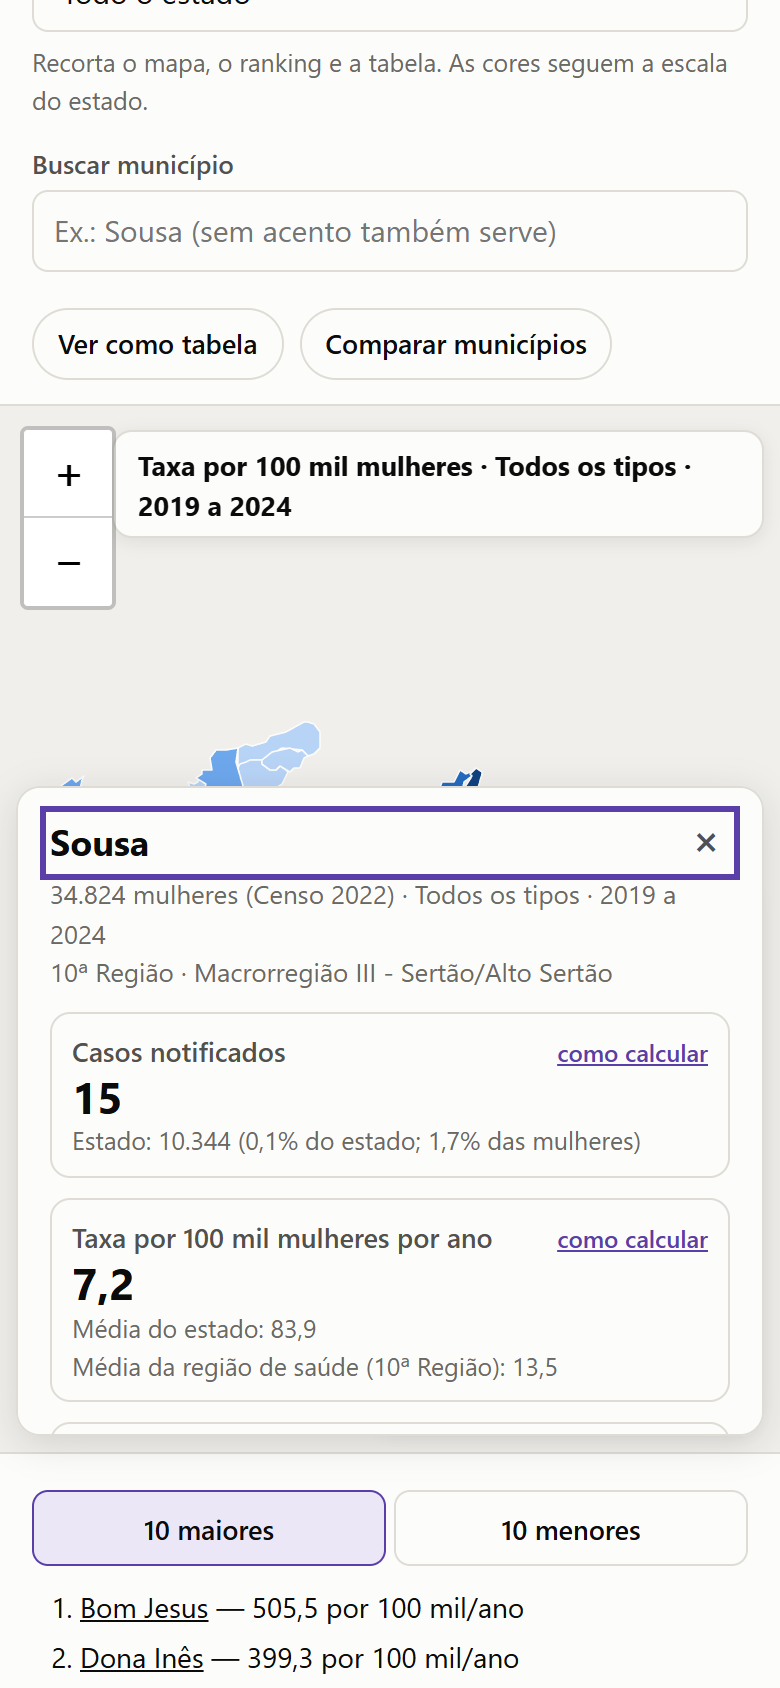
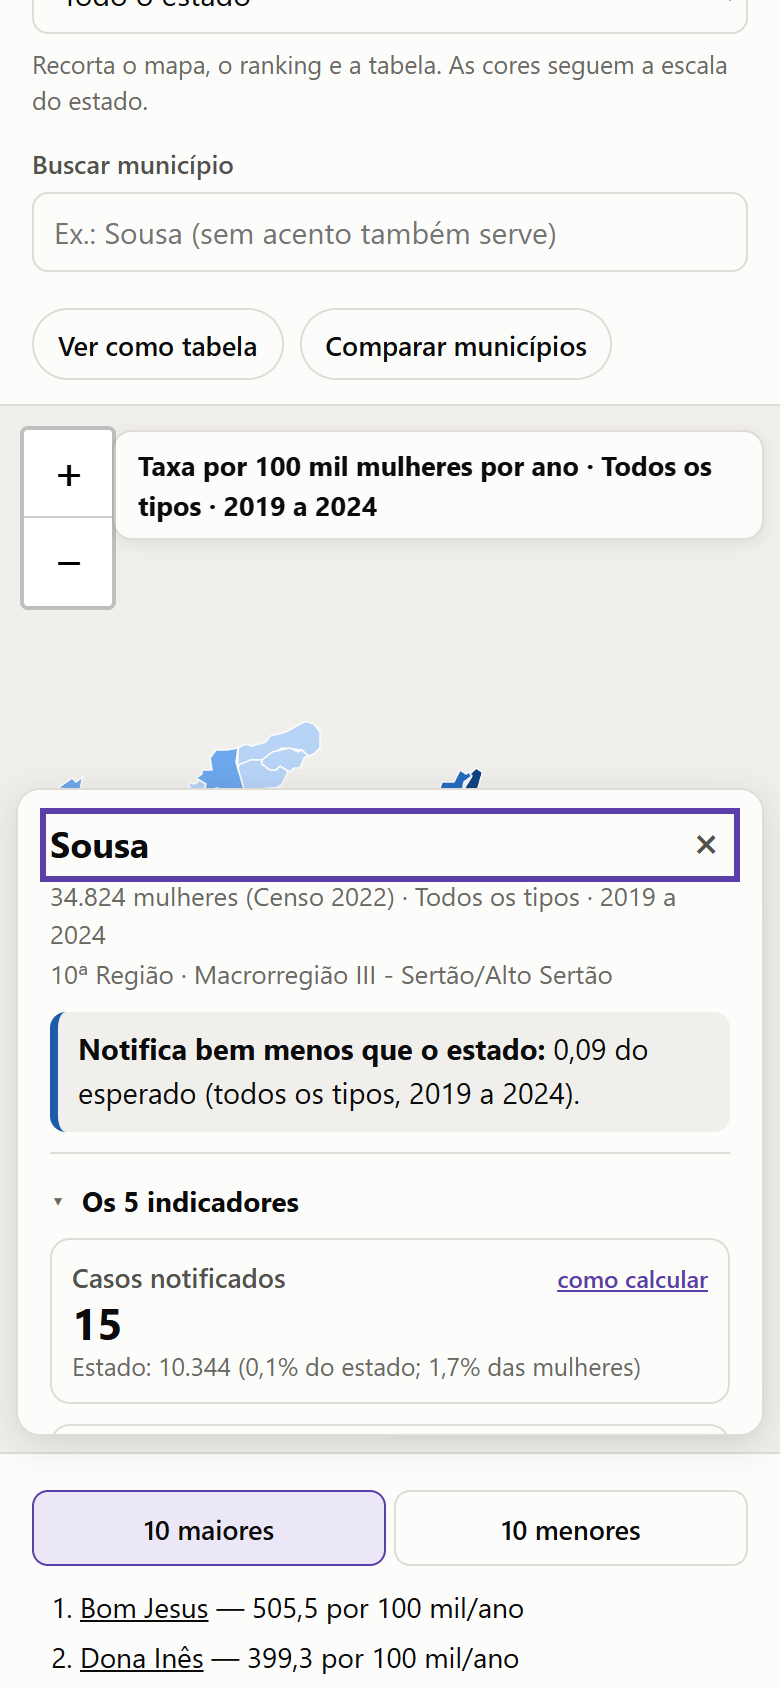
Documentação: acabamento registrado na revisão de usabilidade, material do teste e capturas

diff --git a/docs/websig_usabilidade.md b/docs/websig_usabilidade.md
@@ -77,3 +77,23 @@ Registro: `capturas/piloto_tarefas.json` (gerado pelos testes) e capturas `pilot
 | WebKit (motor do Safari) | 84 OK, 0 falhas | 28 OK, 0 falhas | Links com `tabindex="0"` (problema 15). No teste: o toque usa um ponto dentro do polígono, porque o centro da caixa pode cair no município vizinho. |
 
 A leitura da área de transferência (Copiar link) e o PDF da ficha só são conferidos no Chrome, porque os outros navegadores do Playwright não liberam essas funções nos testes.
+
+## Acabamento para a apresentação (ramo `bases-contexto`, 18/11/2026)
+
+Revisão de acabamento feita como faria uma banca de Interface com o Usuário, sem novas bases nem indicadores e sem mudar dados, SQL ou fórmulas.
+
+| # | Problema | Heurística / critério | Gravidade | Ajuste feito |
+|---|---|---|---|---|
+| A1 | Quem chegava pela primeira vez não tinha uma explicação do painel: para que serve, como usar, fontes e avisos. | H10 Ajuda e documentação; H2 Correspondência com o mundo real | 3 | Tela **"Sobre o painel"**: abre na 1ª visita, com para que serve, uso em 3 passos, os 5 indicadores em uma linha cada, fontes com data e os avisos (notificação ≠ ocorrência; poucos casos). Fecha com um clique ("Começar") e não volta (localStorage com try/catch). Botão "Sobre o painel" no topo. Não abre quando se chega por link de uma ficha. |
+| A2 | A ficha não dizia o que olhar primeiro: começava por 5 cartões do mesmo peso. | H8 Estética e design minimalista; hierarquia visual | 3 | **Frase-resumo calculada** no topo (ex.: "Notifica bem menos que o estado: 0,09 do esperado (todos os tipos, 2019 a 2024)"), com os mesmos cortes da legenda (0,5 · 0,8 · 1,25 · 2). Depois "Os 5 indicadores" e, em seguida, os contextos: faixa etária em detalhe, casos por ano, onde foram atendidas e serviços da MUNIC. |
+| A3 | No celular, a ficha era um rolo longo. | H8; WCAG 1.4.10 Refluxo | 2 | Seções recolhíveis (`<details>`); no celular, só "Os 5 indicadores" começa aberta. Na impressão, todas abrem. |
+| A4 | Sem aviso de carregamento: a tela ficava vazia enquanto os dados chegavam. | H1 Visibilidade do estado do sistema | 2 | "Carregando os dados do painel…" (`role=status`), sobreposto e sem deslocar o layout. |
+| A5 | Se `dados.json` e `dados.js` faltassem, aparecia uma faixa vermelha genérica, com cores fixas que ignoravam o tema escuro. | H9 Ajudar a reconhecer e corrigir erros | 3 | Tela de erro com o que aconteceu e o que fazer (conferir a pasta, extrair o .zip inteiro, rodar `atualizar.bat`) e o botão "Tentar de novo"; usa as cores do tema. |
+| A6 | Filtrar a tabela da Análise por um nome inexistente deixava a tabela vazia, sem explicação. | H9; estados vazios | 2 | Linha "Nenhum município encontrado para …. Confira o nome." |
+| A7 | Termos diferentes para a mesma coisa: "Taxa por 100 mil mulheres" (lista e título do mapa) × "por ano" (legenda); "Taxa / 100 mil / ano" nas tabelas; "Comparar com outros" × "Comparar municípios"; dois "Copiar link" com funções diferentes; "Baixar CSV". | H4 Consistência e padrões | 2 | Nome completo "Taxa por 100 mil mulheres por ano" na lista e no título do mapa; "Taxa por 100 mil/ano" nos cabeçalhos curtos; "Comparar municípios" nos dois lugares; "Copiar link da ficha" na ficha; "Baixar tabela (CSV)". |
+| A8 | Números sem unidade nos gráficos da Análise: a contagem por faixa ("2.592 (25,1%)"), a taxa por faixa e a linha de referência. | Nenhum número sem unidade; H2 | 2 | "2.592 casos (25,1%)", "157,9 por 100 mil/ano · 1.315 casos", "estado: 83,9 por 100 mil/ano", "10.344 casos · 83,9 por 100 mil/ano". |
+| A9 | As leituras da Análise não cobriam os contextos novos nem diziam o que fazer com cada achado. | H2; utilidade para a decisão | 2 | 3 leituras novas, todas calculadas dos dados: faixa de maior taxa (10 a 14 anos), % atendidas na própria região de saúde e quantos municípios declaram cada serviço na MUNIC 2023. **Toda** leitura ganhou "Pergunta para a gestão". O título do bloco passou a "Leituras prontas". |
+| A10 | Não havia roteiro para demonstrar o painel em poucos minutos. | H10; apoio à apresentação | 1 | Botão **"Tour"**: 6 passos (mapa da taxa → observado ÷ esperado → ficha de Sousa → faixa etária em taxa → Análise → Como calcular), cada um com uma frase, Anterior/Próximo, setas ← → e Esc; ao sair, o foco volta ao botão. |
+| A11 | Abrir o painel montava as três telas de uma vez: no celular simulado, 380 ms de bloqueio e Desempenho 75 no Lighthouse. | Eficiência; tempo de resposta | 2 | Análise e Como calcular só são montadas na primeira vez que se abre a aba; "Sobre o painel" abre sem esperar os dados; o aviso de carregamento não desloca o layout; meta description. Lighthouse: celular 99, computador 100 (ver `docs/lighthouse/`). |
+
+Teste-piloto depois do acabamento: as tarefas continuam com 1 ou 2 ações. Na primeira visita há 1 ação a mais (fechar "Sobre o painel"), só uma vez.

diff --git a/README.md b/README.md
@@ -11,7 +11,7 @@ Trabalho de Conclusão de Curso (artigo tecnológico), Sistemas de Informação,
 - **Sem instalar nada:** dê duplo clique em `web/index.html`. Funciona offline, no Chrome, Edge, Firefox ou Safari (usa `web/dados.js`).
 - **Num servidor** (GitHub Pages, servidor da universidade ou `python -m http.server` dentro de `web/`): publique a pasta `web/`. O painel lê `web/dados.json`.
 
-O painel tem três telas: **Mapa** (filtros, mapa, ranking e ficha do município), **Análise** (gráficos, conclusões e tabela para baixar em CSV) e **Como calcular** (cada indicador com fórmula e exemplo).
+O painel tem três telas: **Mapa** (filtros, mapa, ranking e ficha do município), **Análise** (leituras prontas com a pergunta para a gestão, gráficos e tabela para baixar em CSV) e **Como calcular** (cada indicador com fórmula e exemplo). Na primeira visita abre a tela **Sobre o painel** (para que serve, uso em 3 passos, fontes e avisos); o botão **Tour** faz uma demonstração guiada em 6 passos.
 
 ## Como atualizar os dados (refazer tudo a partir dos dados brutos)
 
@@ -68,7 +68,7 @@ Views: `vw_indicador_municipio_ano_tipo` (município × período × tipo), `vw_i
 - Filtros de indicador, tipo de violência, período (cada ano ou 2019–2024) e **região de saúde** (16 regiões; recorta o mapa, o ranking e a tabela e aproxima o mapa da região).
 - Título do mapa com os filtros ativos; legenda com a média do estado (e da região, quando escolhida).
 - Ranking dos 10 maiores e dos 10 menores (nos menores entram só municípios com pelo menos 10 casos).
-- **Ficha do município:** os 5 indicadores comparados com o estado e com a região de saúde, série anual, tipos, faixa etária ("Faixa mais atingida" e botões **Casos | Taxa por 100 mil/ano**, com a taxa do estado como referência), aviso de poucos casos, link "como calcular" e **Imprimir ficha**.
+- **Ficha do município:** frase-resumo calculada no topo (o que olhar primeiro), os 5 indicadores comparados com o estado e com a região de saúde, série anual, tipos, faixa etária ("Faixa mais atingida" e botões **Casos | Taxa por 100 mil/ano**, com a taxa do estado como referência), aviso de poucos casos, link "como calcular" e **Imprimir ficha**.
 - **Onde as mulheres foram atendidas** (contexto, na ficha e na Análise): barra única de 100% com mesma região de saúde, outra região da Paraíba e fora da Paraíba, com número e %. % = casos atendidos na categoria ÷ casos do município × 100. Não é indicador e não diz o motivo.
 - **Serviços declarados pelo município (MUNIC 2023, IBGE):** organismo de políticas para mulheres, centro de referência, casa-abrigo e delegacia especializada, com ícone e texto (sim / não / sem dado). É contexto: não entra em nenhuma conta nem no mapa.
 - Comparar 2 ou 3 municípios; ver o mapa como tabela; baixar CSV (separador `;`, vírgula decimal, abre direto no Excel ou no Calc).
@@ -79,6 +79,10 @@ Views: `vw_indicador_municipio_ano_tipo` (município × período × tipo), `vw_i
 |---|---|---|
 | ![Filtro por região de saúde](capturas/regiao_saude_filtro.png) | ![Ficha no celular](capturas/celular_claro_mapa_ficha.png) | ![Município com foco do teclado](capturas/mapa_foco_teclado.png) |
 
+| Sobre o painel (1ª visita) | Tour guiado (passo 4 de 6) | Erro sem os dados |
+|---|---|---|
+| ![Sobre o painel](capturas/sobre_o_painel.png) | ![Tour](capturas/tour_passo4.png) | ![Mensagem de erro](capturas/estado_erro.png) |
+
 | Faixa etária em taxa | Serviços declarados (MUNIC 2023) | Onde foram atendidas |
 |---|---|---|
 | ![Faixa etária como taxa por 100 mil](capturas/ficha_faixa_taxa.png) | ![Serviços declarados pelo município](capturas/ficha_rede_munic.png) | ![Local de atendimento](capturas/ficha_local_atendimento.png) |
@@ -88,6 +92,10 @@ Views: `vw_indicador_municipio_ano_tipo` (município × período × tipo), `vw_i
 | ![Tela Análise](capturas/1366_claro_analise.png) | ![Tela Como calcular](capturas/1366_claro_como_calcular.png) | ![Tema escuro](capturas/1366_escuro_mapa_ficha.png) |
 
 A ficha impressa (botão **Imprimir ficha**) sai numa folha limpa, com fonte e data; os testes geram um exemplo em PDF em `capturas/` (não publicado).
+
+## Qualidade
+
+Lighthouse 12.6 (página inicial, servidor com compressão): celular Desempenho 99, Acessibilidade 100, Boas práticas 100, SEO 100; computador 100 em tudo. Relatórios em [`docs/lighthouse/`](docs/lighthouse/).
 
 ## Testes
 

diff --git a/docs/teste_usuarios/01_roteiro_20min.md b/docs/teste_usuarios/01_roteiro_20min.md
@@ -8,7 +8,7 @@ Painel de indicadores de violência contra a mulher na Paraíba (SINAN 2019–20
 
 - 5 pessoas do público-alvo: gestoras ou técnicos de saúde, assistência social ou políticas para mulheres (plano: `docs/websig_plano.md`, seção 3).
 - Material: este roteiro; `02_tarefas_e_respostas.md` (gabarito, só para quem conduz); `03_questionario_SUS.md`; `04_perguntas_abertas.md`; `05_termo_consentimento.md`; `planilha_registro.xlsx`; cronômetro.
-- Antes de cada sessão: abrir o painel na **página inicial** (Mapa, sem município aberto), num navegador atualizado, tela de pelo menos 1366 px. No remoto, mandar o link e pedir que a pessoa compartilhe a tela.
+- Antes de cada sessão: abrir o painel numa **janela anônima** (assim a tela "Sobre o painel" aparece como na primeira visita), na página inicial, num navegador atualizado, tela de pelo menos 1366 px. No remoto, mandar o link e pedir que a pessoa compartilhe a tela.
 - Código do participante: P01, P02… Não anotar o nome na planilha.
 
 ## Tempo
@@ -33,7 +33,7 @@ Leva uns 20 minutos. Não gravo seu nome. [Ler o termo de consentimento.] Podemo
 
 ## 2. Aquecimento
 
-"Olhe a tela à vontade por um minuto e me diga o que acha que dá para fazer aqui." Não corrigir nada. Anotar a primeira impressão em Observações de T1.
+Deixar a pessoa ler a tela "Sobre o painel" e fechá-la quando quiser (anotar se ela leu, pulou ou abriu o tour). Depois: "Olhe a tela à vontade por um minuto e me diga o que acha que dá para fazer aqui." Não corrigir nada. Anotar a primeira impressão em Observações de T1.
 
 ## 3. Tarefas (pensar em voz alta)
 

diff --git a/docs/teste_usuarios/02_tarefas_e_respostas.md b/docs/teste_usuarios/02_tarefas_e_respostas.md
@@ -41,7 +41,7 @@ Gerado por `testes/gerar_material_teste.py` a partir de `web/dados.json`. Fonte:
 
 **Tarefa:** Você vai levar os dados para uma reunião. Baixe a tabela dos municípios ou imprima a ficha de um município.
 
-**Resposta certa:** Arquivo CSV com 223 municípios (aba Análise → Baixar CSV) ou ficha impressa/salva em PDF (ficha → Imprimir ficha).
+**Resposta certa:** Arquivo CSV com 223 municípios (aba Análise → Baixar tabela (CSV)) ou ficha impressa/salva em PDF (ficha → Imprimir ficha).
 
 **Critério:** Acerto: arquivo baixado ou janela de impressão aberta com a ficha. Tempo-limite sugerido: 3 min.
 
@@ -52,7 +52,9 @@ Gerado por `testes/gerar_material_teste.py` a partir de `web/dados.json`. Fonte:
 | T1 | 2 | Indicador "Observado ÷ esperado" → ranking "10 menores" |
 | T2 | 1 | Buscar município: digitar "Sousa" e Enter (a ficha mostra a taxa, a média do estado e "Notifica menos que a média do estado") |
 | T3 | 1 | Buscar "Campina Grande" e Enter (a ficha escreve "Faixa mais atingida: …") |
-| T4 | 1 | Aba Análise (bloco "O que os dados mostram") |
-| T5 | 2 | Aba Análise → Baixar CSV; ou buscar o município → Imprimir ficha |
+| T4 | 1 | Aba Análise (bloco "Leituras prontas") |
+| T5 | 2 | Aba Análise → Baixar tabela (CSV); ou buscar o município → Imprimir ficha |
+
+Na primeira visita, a tela "Sobre o painel" abre sozinha e fecha com 1 clique (Começar): é 1 ação a mais, só uma vez.
 
 Fonte: `testes/testar_usabilidade.py` (registro em `capturas/piloto_tarefas.json`, gerado pelos testes).

diff --git a/docs/ramo_bases_contexto.md b/docs/ramo_bases_contexto.md
@@ -38,6 +38,16 @@ Novo bloco na ficha e na Análise: uma barra de 100% com o local da notificaçã
 
 ![Onde as mulheres de Sousa foram atendidas](../capturas/ficha_local_atendimento.png)
 
+## 4. Acabamento de interface para a apresentação
+
+- **Sobre o painel** na primeira visita: para que serve, uso em 3 passos, os 5 indicadores, fontes com data e avisos. Fecha com um clique e não volta.
+- **Ficha** com o que olhar primeiro: frase-resumo calculada ("Notifica bem menos que o estado: 0,09 do esperado"), depois os 5 indicadores, depois os contextos; seções recolhíveis no celular.
+- **Leituras prontas** na Análise, cada uma com a evidência e uma pergunta para a gestão.
+- **Tour** de 6 passos para a demonstração, além de estados de carregamento, erro e busca vazia com mensagem útil.
+- **Lighthouse:** celular 99 de desempenho e 100 de acessibilidade; computador 100 nos dois (`docs/lighthouse/`). Detalhes em `docs/websig_usabilidade.md`.
+
+![Tela Sobre o painel](../capturas/sobre_o_painel.png)
+
 ---
 
 ## O que NÃO foi acrescentado, e por quê
